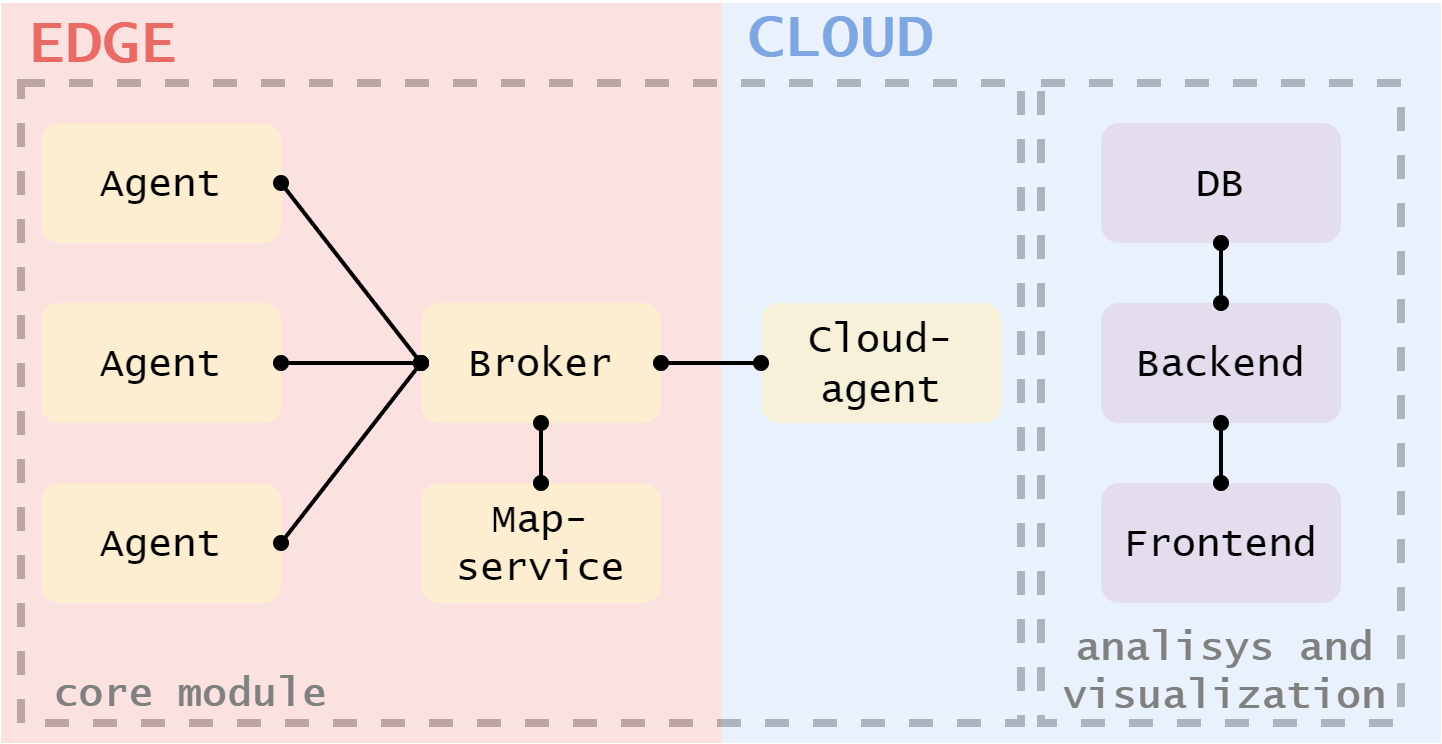
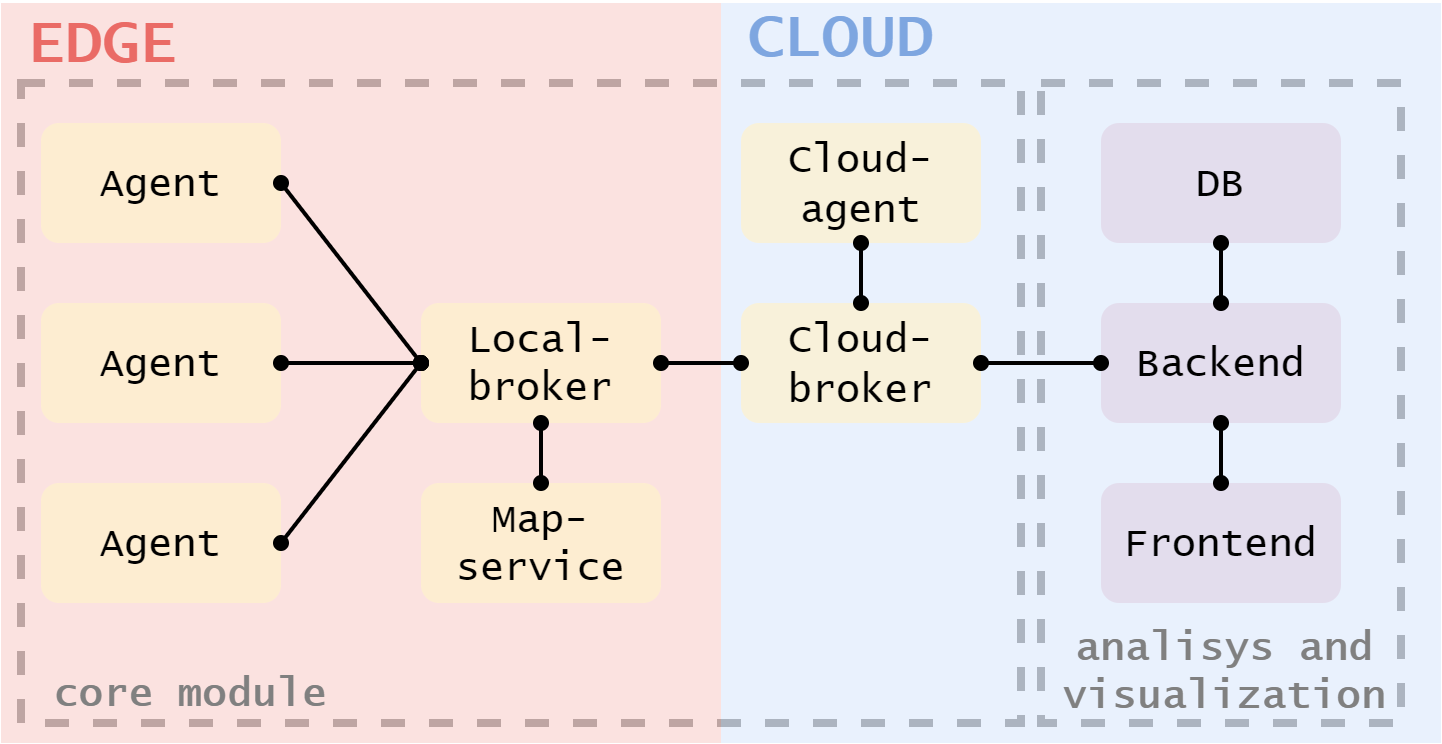
microservices explained

Changed region(s): [[0.4993, 0.371, 0.7802, 0.5874], [0.4993, 0.1546, 0.6865, 0.3401], [0.3121, 0.4328, 0.4369, 0.5565]]

diff --git a/docs/thesis/chapters/03_01_Microservices.tex b/docs/thesis/chapters/03_01_Microservices.tex
@@ -1,14 +1,40 @@
+In a recent years wide cloud adoption has coused huge momentum in adopting software architecture known as micro-services, as it is a native architecture for the cloud. This project will also adapt this architecture because part of the deployment is being done in cloud, and swarm of agents can also be simulated using this approach. Moreover technologies such as kind and tilt made it easier to develop all services locally using local kubernetes cluster.
+
+{\color{red}What are microservices?}
 
 \begin{figure}[H]
     \centering
-    \includegraphics[width=0.8\textwidth]{pictures/services.png}
+    \includegraphics[width=\textwidth]{pictures/services.png}
     \caption{ Micro services system design }
     \label{fig:micro_services}
 \end{figure}
 
 \subsection{Agent}
+{\color{red}What time should i use(will, is, was)?}
+Agent is a microservice which is implementing the logic of the entity which needs to plan a path.  It is meant to have limited resources to simulate real world scenario, and number of its instances will vary.
+
+When agent is started, it doesn't belong to any swarm so it will start local discovery to find his peers. After peers are found, one of the agent has to be elected as a leader and therefore election algorithm will be initiated in on e or multiple agent and on agent will be elected to be a swarm leader. Agent will periodically poll his peers to check their liveness and it this behaviour will be refereed as liveness check.
+
+This entity contain also all algorithms meant for path planning as in a base case scenario, computation will take place in the agent to obtain path.
+
 \subsection{Cloud-agent}
+Cloud-agent is an entity to which computation can be upstream to offload the agents. It will have much more computing power, but it might be located in different geographically location so latency between local agents and this one will matter in case of total calculation time.
+
+This microservice will be deployed in the cloud and it will use cloud-broker as a communication medium.
+
 \subsection{Broker}
+Service responsible of communication between the services. It will be deployed both in cloud and in the local environment, and those two entities should be connected with a bridge. This will be a single connection point between cloud and edge.
+
+{\color{red}Maybe explain in mqtt part)?}
+This entity will use pub/sub approach to handle and distribute the messages.
+
 \subsection{Map-service}
+Initially when agents are spawned they do not have any map assigned. After electing a leader he will trigger new map generation, by message passing to map-service. This entity is responsible of creation the map and spawning agent in it. It is a substitute of sensing for the agent as it gives the robots all information they need for finding in position in a global map.
+
+Additionally pre-defined map are stored in this service and can be adopted by the agent upon specific query. Note that map-service can spawn agent in a places wher it is not possible to reach the goal, but it is also a valid scenario.
+
 \subsection{Backend}
+It is a service meant for gathering data and interacting with a core module(agent, map-service etc.). It exposes endpoint throug REST api(endpoints in the appendix A) and forwards request to MQTT broker. It is also receiving data from alll the entities and stores it in a database connected to it. Backend is deployed in a cloud and it connects to a cloud-broker, endpoints should be exposed to the end-user.
+
 \subsection{Frontend}
+End user gragphical interface, deployed as a web-service is called frontend. It is taking inputs from the user and triggering specific actions through backend service API. It is also used for raw data visualization and it is deployed in a cloud and exposed to end user. It's capabilities are explained in \hyperref[sec:0308]{visualization section} of this chapter.

diff --git a/docs/thesis/chapters/03_00_System_Design.tex b/docs/thesis/chapters/03_00_System_Design.tex
@@ -1,7 +1,12 @@
 %!TEX root = ../Thesis.tex
 \chapter{System Design}
 The development of multi-agent systems requires spinning multiple instances of identical entities. In a real-world scenario, those entities would be real robots with their own computing unit connected to each other with some kind of networking. To simulate this scenario microservices approach will be used, as it allows to easily separate agents even on a single computer setup as well as put constrain on computing power and memory usage.
-Cloud computing will also be used in this study and the micro-service approach is a native one for the cloud. Therefore all services around the agents will also be implemented as microservices.
+
+Cloud and edge computing are widely used in this project, cloud for up-streaming the computation, gathering and visualizing the data, edge to model agents behaviour.
+
+Multiple agents will communicate together to agree on certain actions, therefore mechanisms such as leader election an liveness check and local discovery were implemented and will be described in this section.
+
+This section will also explain how data gathering and visualization will be implemented in this project and how it is connected to the whole system.
 \section{Microservices}
 \input{chapters/03_01_Microservices}
 
@@ -24,4 +29,5 @@ Cloud computing will also be used in this study and the micro-service approach i
 \input{chapters/03_07_Liveness_algorithm}
 
 \section{Visualization}
+\label{sec:0308}
 \input{chapters/03_08_Visualization}

diff --git a/docs/thesis/prefrontmatter/titlepage.tex b/docs/thesis/prefrontmatter/titlepage.tex
@@ -12,6 +12,7 @@
         \\*[2cm]
         \LARGE \thesistitle{}\\*[0.2cm]
         \large \thesissubtitle{}\\*[1.2cm]
+        {\color{dtured} \rule{\linewidth}{0.5mm}}
         \\*[12cm]
         \parbox[b]{0.5\linewidth}{%
             \LARGE 
